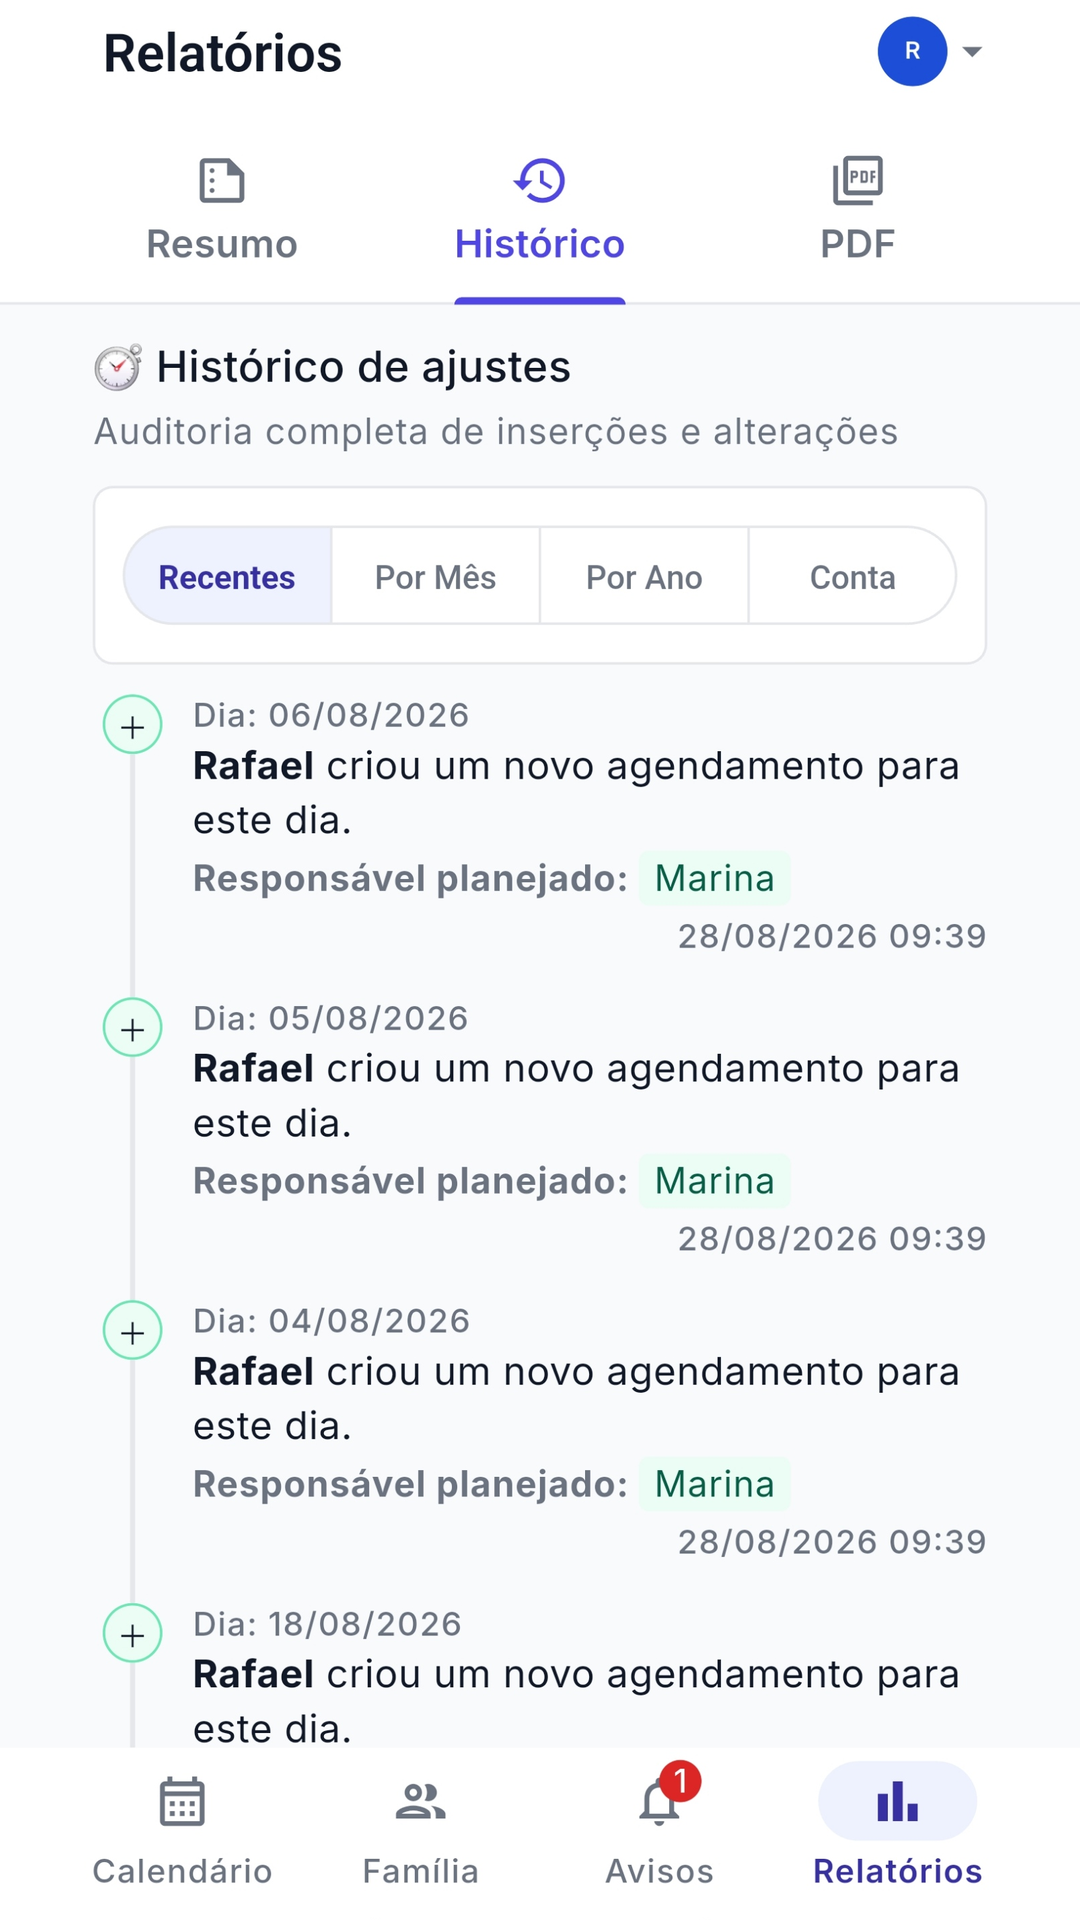
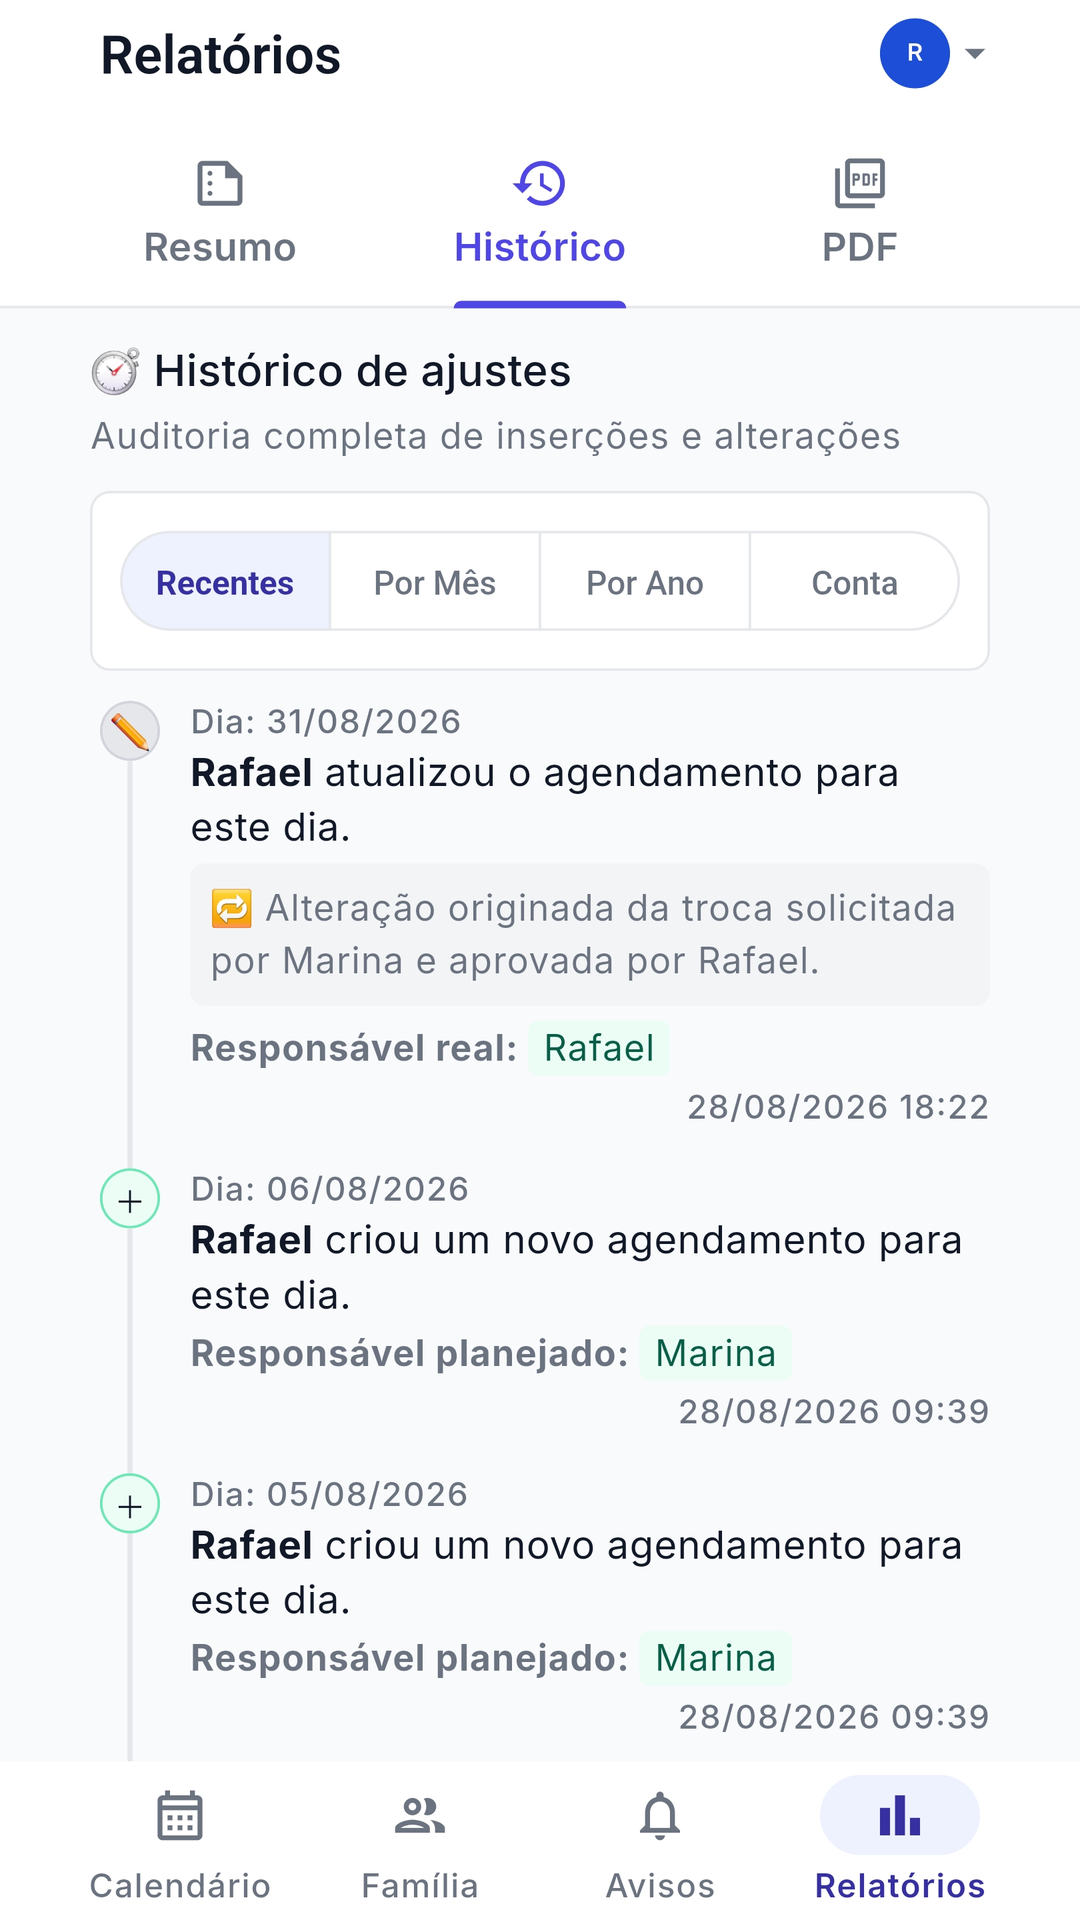
fix(home): L-17 — o beat 3 passa a ser a MESMA troca dos beats 1 e 2
A sequência afirmava um encadeamento que a imagem não sustentava. O frame do
histórico era anterior à existência da troca: as entradas diziam "Rafael criou
um novo agendamento", sem relação nenhuma com o pedido do dia 31/08 que os
beats 1 e 2 montam. Cada legenda era verdadeira isolada — foi por isso que
passou pela revisão. O owner viu.

A troca foi feita de verdade e as telas foram recapturadas: o Histórico de
ajustes agora abre com "Dia: 31/08/2026 — Rafael atualizou o agendamento para
este dia", com o banner de origem do F-45 ("Alteração originada da troca
solicitada por Marina e aprovada por Rafael") e carimbo 28/08/2026 18:22. Mesmo
dia, mesmo pedido, uma cadeia só — e a legenda do beat 3 pode citar a origem em
vez de falar em volta dela. O recorte cresceu de 14,1% para 22,8% de altura para
abraçar o banner.

Quase entrou coisa pior no lugar. A primeira correção à mão era o histórico de
NOTIFICAÇÕES (Avisos → Histórico), que mostra "Nova solicitação de troca" e
"Troca confirmada" para o dia 31/08 e é lindamente coerente. Só que ele não é
imutável: `notifications` tem policy de UPDATE para o destinatário
(`notifications_update_own`, linha inteira, não só `is_read`) e
`purge_old_notifications()` apaga por cron o que foi lido há mais de 6 meses.
Pôr "nada ali pode ser editado nem apagado" sobre essa tela trocaria um defeito
de coerência por uma afirmação FALSA. O registro imutável é o `activity_logs`, e
quem o mostra é Relatórios → Histórico.
[…]

diff --git a/public/index.html b/public/index.html
@@ -531,7 +531,7 @@
                         <div class="shot" data-caption="Tudo registrado, com data e hora — sem poder apagar">
                             <picture>
                                 <source srcset="img/screenshots/historico-auditoria.webp" type="image/webp" />
-                                <img src="img/screenshots/historico-auditoria.png" width="1080" height="1920" alt="Histórico de ajustes: registro imutável das alterações com data e hora" loading="lazy" decoding="async" />
+                                <img src="img/screenshots/historico-auditoria.png" width="1080" height="1920" alt="Histórico de ajustes: registro imutável das alterações, com a origem da troca e a data e hora de cada uma" loading="lazy" decoding="async" />
                             </picture>
                         </div>
                         <div class="shot" data-caption="Pai, mãe e avó no mesmo calendário — cada um com a sua cor">
@@ -666,7 +666,7 @@
 <section id="registro">
     <div class="wrap">
         <h2>Veja o histórico sendo escrito</h2>
-        <p class="section-lead">Não dá para provar um registro inalterável com uma frase. São duas telas reais do app, na ordem em que a coisa acontece — do pedido de troca à linha que ninguém mais tira.</p>
+        <p class="section-lead">Não dá para provar um registro inalterável com uma frase. São duas telas reais do app seguindo <em>o mesmo pedido</em> — a troca do dia 31/08 — do card de aprovação à linha que ninguém mais tira.</p>
         <div class="demo" id="demo">
             <div class="phone">
                 <div class="phone-screen">
@@ -679,7 +679,7 @@
                     <div class="demo-frame">
                         <picture>
                             <source srcset="img/screenshots/historico-auditoria.webp" type="image/webp" />
-                            <img src="img/screenshots/historico-auditoria.png" width="1080" height="1920" alt="Tela Relatórios do app, aba Histórico: o histórico de ajustes, com cada alteração e a data e hora em que foi registrada" loading="lazy" decoding="async" />
+                            <img src="img/screenshots/historico-auditoria.png" width="1080" height="1920" alt="Tela Relatórios do app, aba Histórico: a entrada do dia 31/08/2026 registrando que a alteração veio da troca solicitada por Marina e aprovada por Rafael, com data e hora" loading="lazy" decoding="async" />
                         </picture>
                     </div>
                     <div class="demo-ring" style="left: 9.9%; top: 59.2%; width: 80.6%; height: 13.6%;" aria-hidden="true"></div>
@@ -701,9 +701,9 @@
                     </button>
                 </li>
                 <li>
-                    <button type="button" data-frame="1" data-hl="9.3,36.0,83.3,14.1" aria-current="false">
+                    <button type="button" data-frame="1" data-hl="9.3,36.4,83.3,22.8" aria-current="false">
                         <span class="demo-n">3</span>
-                        <span class="demo-tx"><strong>A mudança vira registro</strong><span class="demo-d">Toda alteração entra no Histórico de ajustes com data e hora. O registro só cresce: nada ali pode ser editado nem apagado — nem por você.</span></span>
+                        <span class="demo-tx"><strong>A troca vira registro</strong><span class="demo-d">A aprovação entra no Histórico de ajustes dizendo de onde veio — <em>troca solicitada por Marina e aprovada por Rafael</em> — e carimbada em 28/08/2026 18:22. O registro só cresce: nada ali pode ser editado nem apagado.</span></span>
                         <span class="demo-bar"><i></i></span>
                     </button>
                 </li>

diff --git a/public/en/index.html b/public/en/index.html
@@ -661,7 +661,7 @@
 <section id="record">
     <div class="wrap">
         <h2>Watch the record being written</h2>
-        <p class="section-lead">A sentence cannot prove that a record is unchangeable. These are two real screens of the app, in the order things happen — from the swap request to the line nobody can take back.</p>
+        <p class="section-lead">A sentence cannot prove that a record is unchangeable. These are two real screens of the app following <em>the same request</em> — the swap for 31 Aug — from the approval card to the line nobody can take back.</p>
         <div class="demo" id="demo">
             <div class="phone">
                 <div class="phone-screen">
@@ -674,7 +674,7 @@
                     <div class="demo-frame">
                         <picture>
                             <source srcset="/img/screenshots/en/historico-auditoria.webp" type="image/webp" />
-                            <img src="/img/screenshots/en/historico-auditoria.png" width="1080" height="1920" alt="The app's Reports screen, History tab: the adjustment history, with every change and the date and time it was recorded" loading="lazy" decoding="async" />
+                            <img src="/img/screenshots/en/historico-auditoria.png" width="1080" height="1920" alt="The app's Reports screen, History tab: the 31 Aug 2026 entry recording that the change came from the swap requested by Marina and approved by Rafael, with its date and time" loading="lazy" decoding="async" />
                         </picture>
                     </div>
                     <div class="demo-ring" style="left: 9.9%; top: 56.3%; width: 80.6%; height: 16.7%;" aria-hidden="true"></div>
@@ -696,9 +696,9 @@
                     </button>
                 </li>
                 <li>
-                    <button type="button" data-frame="1" data-hl="9.3,36.0,83.3,14.1" aria-current="false">
+                    <button type="button" data-frame="1" data-hl="9.3,36.4,83.3,22.8" aria-current="false">
                         <span class="demo-n">3</span>
-                        <span class="demo-tx"><strong>The change becomes a record</strong><span class="demo-d">Every change lands in the Adjustment history with its date and time. The log only ever grows: nothing there can be edited or deleted — not even by you.</span></span>
+                        <span class="demo-tx"><strong>The swap becomes a record</strong><span class="demo-d">The approval lands in the Adjustment history saying where it came from — <em>swap requested by Marina and approved by Rafael</em> — stamped 28 Aug 2026 6:22 PM. The log only ever grows: nothing there can be edited or deleted.</span></span>
                         <span class="demo-bar"><i></i></span>
                     </button>
                 </li>

diff --git a/ROADMAP.md b/ROADMAP.md
@@ -541,6 +541,31 @@ the captures themselves are T-57's)
 > trigger only**. The copy stays on *inalterável* and never revives the retired "à prova de
 > disputa" promise (L-10 update 2).
 >
+> **Correction, same day — the third beat used to be incoherent.** As first shipped, beat 3
+> pointed at the audit log as it stood *before* the swap existed: its entries read "Rafael criou
+> um novo agendamento", with no connection to the 31/08 request that beats 1 and 2 set up. The
+> sequence asserted a chain the image did not support — the captions were each true in isolation,
+> which is exactly why it survived review. The owner caught it. The fix was to perform the swap
+> for real and re-shoot: the audit log now opens with **"Dia: 31/08/2026 — Rafael atualizou o
+> agendamento para este dia"**, carrying the F-45 origin banner (*"Alteração originada da troca
+> solicitada por Marina e aprovada por Rafael"*) and stamped 28/08/2026 18:22. Same day, same
+> request, one chain — and beat 3's caption can now quote the origin instead of talking around it.
+>
+> **The near-miss worth remembering: the coherent screen is not always the truthful one.** The
+> first fix on offer was the *notification* history (Avisos → Histórico), which shows "Nova
+> solicitação de troca" and "Troca confirmada" for 31/08 and is beautifully coherent. It is also
+> **not immutable**: `notifications` carries an UPDATE policy for the recipient
+> (`notifications_update_own`, the whole row — not just `is_read`), and `purge_old_notifications()`
+> deletes read rows older than six months by cron. Putting *"nada ali pode ser editado nem
+> apagado"* over that screen would have traded a coherence defect for a **false claim** — the S-15
+> failure mode. The immutable record is `activity_logs`, and the screen that shows it is
+> Relatórios → Histórico. Check which table a screenshot photographs before captioning it.
+>
+> **The re-shoot also changed the shared asset.** `historico-auditoria.{png,webp}` was replaced in
+> both languages, and per `entrelares-flutter/store/README.md` the landing and the **Play listing**
+> share one set — so the Console's frame 4 is now stale until someone re-uploads it. The file names
+> are unchanged, which is what keeps the `<picture>` elements and their `alt` text valid.
+>
 > **Details worth keeping.** Autoplay runs only while the section is in view
 > (`IntersectionObserver`): it lives below the fold, and a sequence that finished before the
 > visitor arrived shows nothing. The hero stays the LCP element. `/en/` carries **two coordinates
@@ -586,11 +611,21 @@ generator**, which is the point: the demo is made of frames that already existed
 be re-recorded when the UI changes is `img/screenshots/{,en/}` itself, and T-57's capture note
 already owns that.
 
-**The coordinates are the fragile part.** Each beat's spotlight is a `data-hl` of
-`left,top,width,height` in **percent of the 1080×1920 frame**; re-shoot a screenshot and the
-numbers have to be re-measured against the new one, or the highlight lands on the wrong element
-while every test stays green. They are the only place where this section knows something about
-the *inside* of an image.
+**The coordinates are the fragile part, and it was proven the same day.** Each beat's spotlight
+is a `data-hl` of `left,top,width,height` in **percent of the 1080×1920 frame**; re-shoot a
+screenshot and the numbers have to be re-measured against the new one, or the highlight lands on
+the wrong element while every test stays green. The beat-3 re-shoot moved its box from
+`9.3,36.0,83.3,14.1` to `9.3,36.4,83.3,22.8` — the entry grew because it now carries the origin
+banner. They are the only place where this section knows something about the *inside* of an image.
+
+**And re-processing a capture is not a resize.** The frames come off the phone at 1440×3088 (20∶9)
+and the set is 1080×1920 (9∶16). The obvious move — crop height until the ratio fits — is WRONG:
+there are ~2850 rows of app content for a 2560-row budget, so it silently eats either the screen
+title or the bottom navigation bar (it ate the title first). The T-57 pipeline **widens** instead,
+replicating the edge column, which works only because the app's side edges are flat: crop just the
+OS chrome (status bar above, gesture pill below), pad left/right to 9∶16, then resize. The frame
+already in the repo is the spec — it carries 84 px of replicated column on the left and 90 on the
+right, which is how the pipeline was recovered rather than guessed.
 
 ---
 
